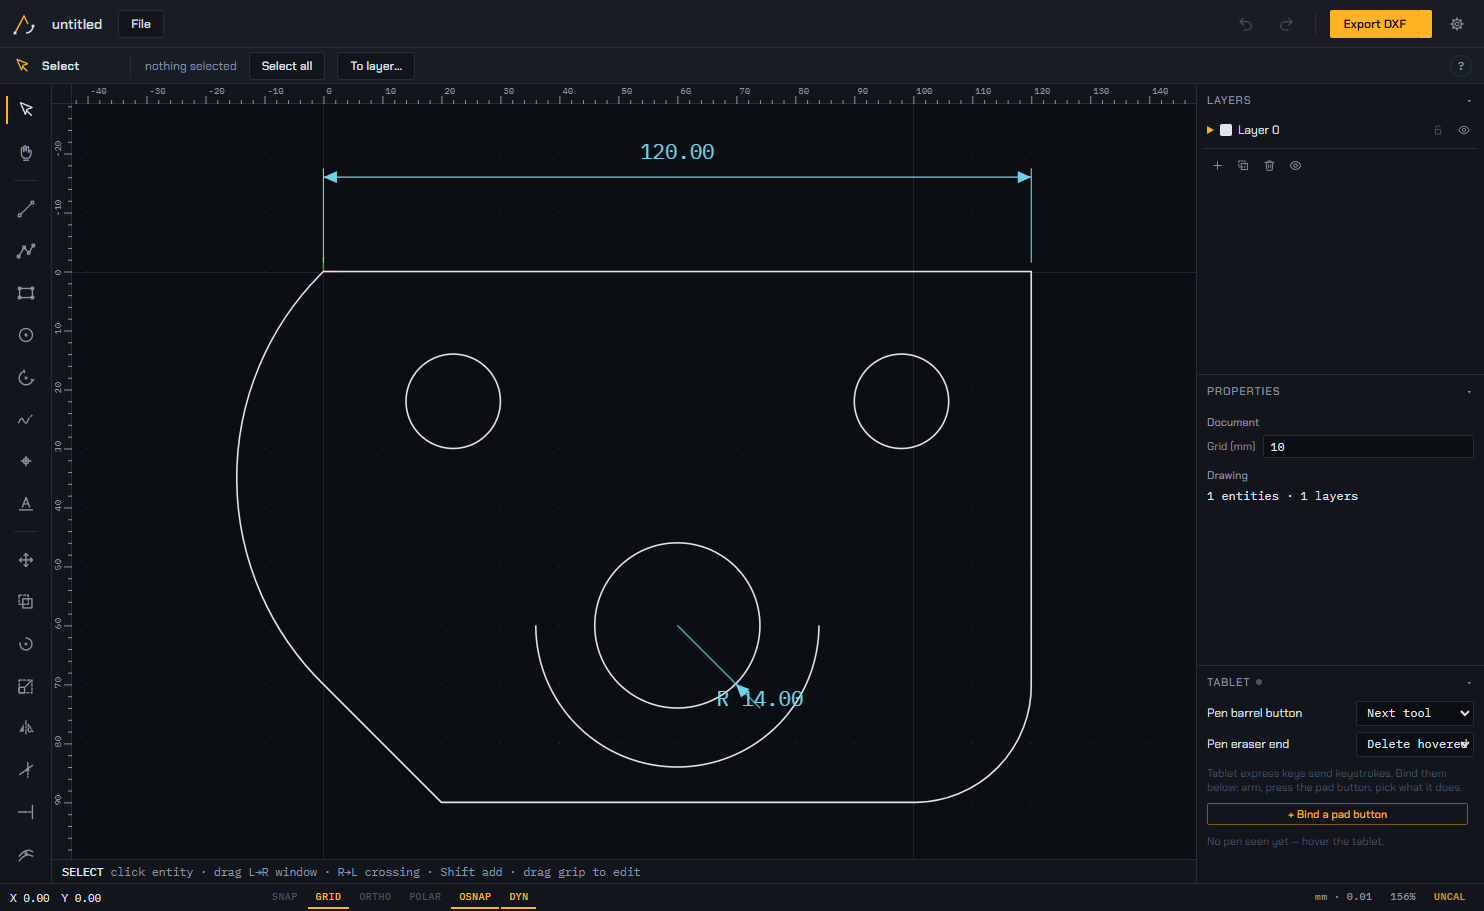
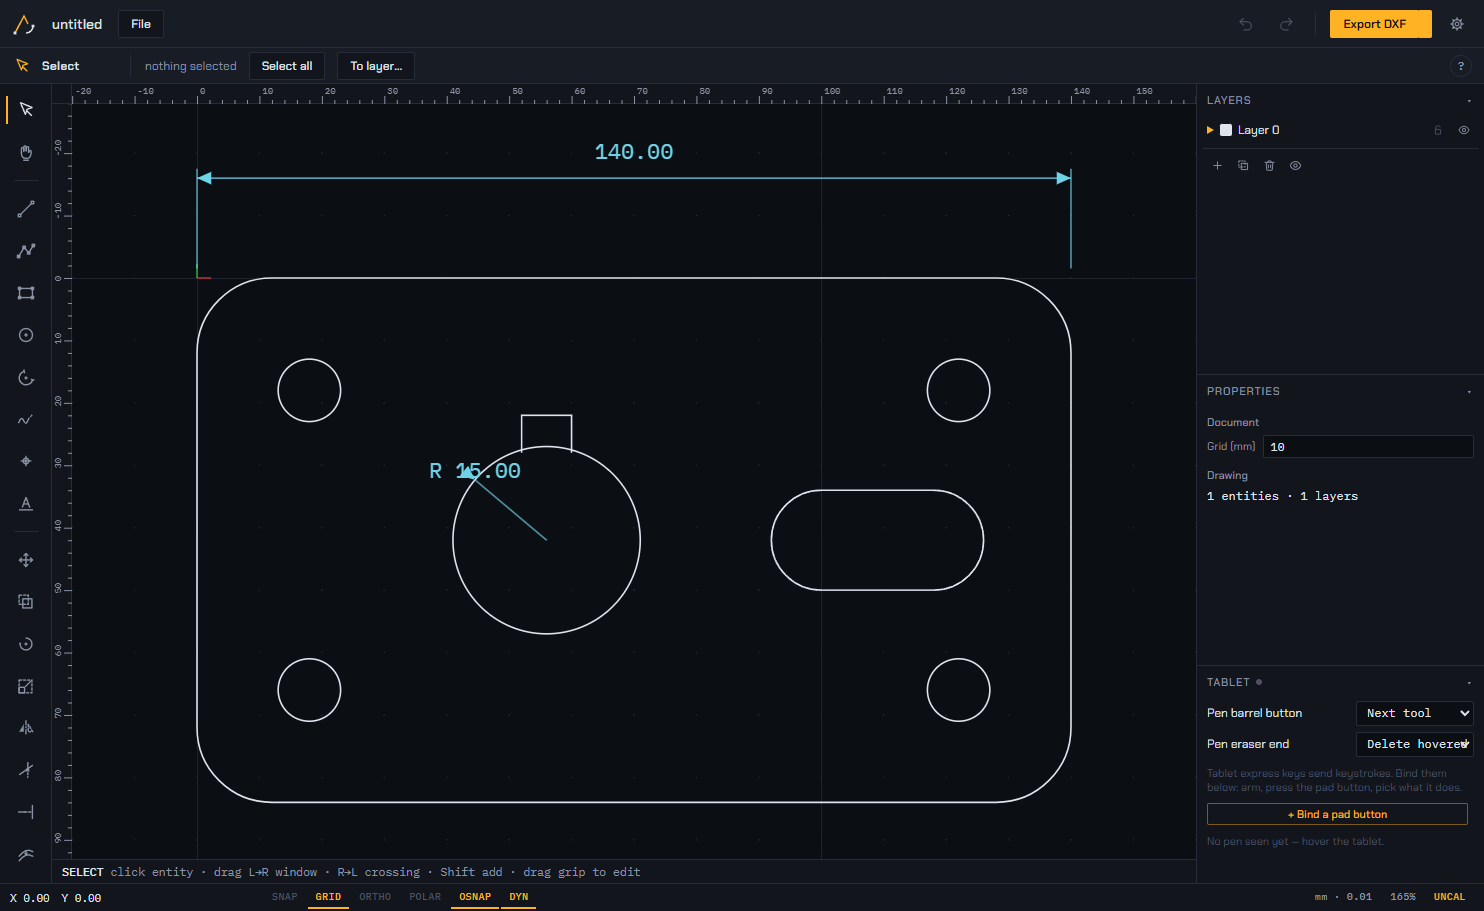
Docs: direct-download button, engineering examples, stable installer name
- README: one-click "Download for Windows" badge → releases/latest/download/TrueLine-Setup.exe
- Add engineering examples gallery (bracket, flange, gasket, slot, lever, hex) and a real
  dimensioned part as the hero (replacing the shapes/smiley)
- Installer artifactName fixed to TrueLine-Setup.exe so the download link never breaks

diff --git a/README.md b/README.md
@@ -10,23 +10,20 @@ Sketch a rough circle and it becomes a perfect one. Trace an outline and it snap
 lines, arcs, and smooth curves — then exports as true-to-size DXF your CAM software reads
 directly.
 
-[![License: MIT](https://img.shields.io/badge/License-MIT-blue.svg)](LICENSE)
-![Platform: Windows x64](https://img.shields.io/badge/platform-Windows%20x64-informational)
+### [⬇ Download TrueLine for Windows](https://github.com/Nik-Horner/TrueLine/releases/latest/download/TrueLine-Setup.exe)
 
----
+[![Download TrueLine for Windows](https://img.shields.io/badge/⬇%20Download-TrueLine%20for%20Windows-2ea44f?style=for-the-badge)](https://github.com/Nik-Horner/TrueLine/releases/latest/download/TrueLine-Setup.exe)
+&nbsp;
+[![License: MIT](https://img.shields.io/badge/License-MIT-blue.svg?style=for-the-badge)](LICENSE)
 
-## Download
+That link always downloads the newest installer. Run it — no account, no internet, no license.
 
-Grab the latest **`TrueLine-Setup-x.y.z.exe`** from the
-[**Releases page**](https://github.com/Nik-Horner/TrueLine/releases/latest) and run it.
-No account, no internet, no per-seat license.
+> First launch, Windows SmartScreen may show a blue "Windows protected your PC" box because the
+> app isn't code-signed with a paid certificate. Click **More info → Run anyway**. That's normal
+> for free/indie apps — it's not a virus warning, just an unrecognized publisher.
 
-> First launch, Windows SmartScreen may show a blue "Windows protected your PC" box because
-> the app isn't code-signed with a paid certificate. Click **More info → Run anyway**. That's
-> normal for free/indie apps — it's not a virus warning, just an unrecognized publisher.
-
-The app **updates itself**: when a new release is published here, installed copies download it
-in the background and install it on the next launch.
+The app **updates itself**: when a new release is published here, installed copies download it in
+the background and install it on the next launch.
 
 ---
 
@@ -46,6 +43,13 @@ CAM, or apparel software.
 Draw rough; get clean. Circles snap to perfect circles, arcs to arcs, straight edges to straight
 lines, and freeform curves become smooth tangent-continuous arc chains — not jagged facets.
 Prefer a faithful smooth outline? Switch the trace mode to **Raw** for a tremor-cleaned polyline.
+
+### Real parts, real dimensions
+
+![Engineering parts drawn in TrueLine — bracket, flange, slotted plate, lever, gasket, hex spacer](assets/examples.png)
+
+Brackets, flanges, gaskets, slots, bolt circles, hex profiles — traced or drawn with holes,
+fillets, arcs, and dimensions, exported as true-scale DXF for the shop.
 
 ## Features
 
@@ -91,11 +95,16 @@ npm run test:app     # full app suite: every tool, exports validated by parsers
 
 1. Bump `"version"` in `package.json`.
 2. `npm run installer`
-3. Create a GitHub release for the new tag and attach `TrueLine-Setup-<version>.exe`,
-   `latest.yml`, and the `.blockmap` from `dist-installer/`.
+3. Create a GitHub release for the new tag and attach the three files from `dist-installer/`:
+   `TrueLine-Setup.exe`, `latest.yml`, and `TrueLine-Setup.exe.blockmap`.
 
-Installed apps pick it up automatically on next launch. (`GH_TOKEN=... npx electron-builder
---win nsis --publish always` does the upload for you.)
+```bash
+gh release create v3.0.3 dist-installer/TrueLine-Setup.exe dist-installer/latest.yml \
+  dist-installer/TrueLine-Setup.exe.blockmap --title "TrueLine 3.0.3" --notes "..."
+```
+
+Installed apps pick it up automatically on next launch, and the download button above always
+points at the newest installer (the filename never changes).
 
 ## Roadmap / deliberately not in v1
 
